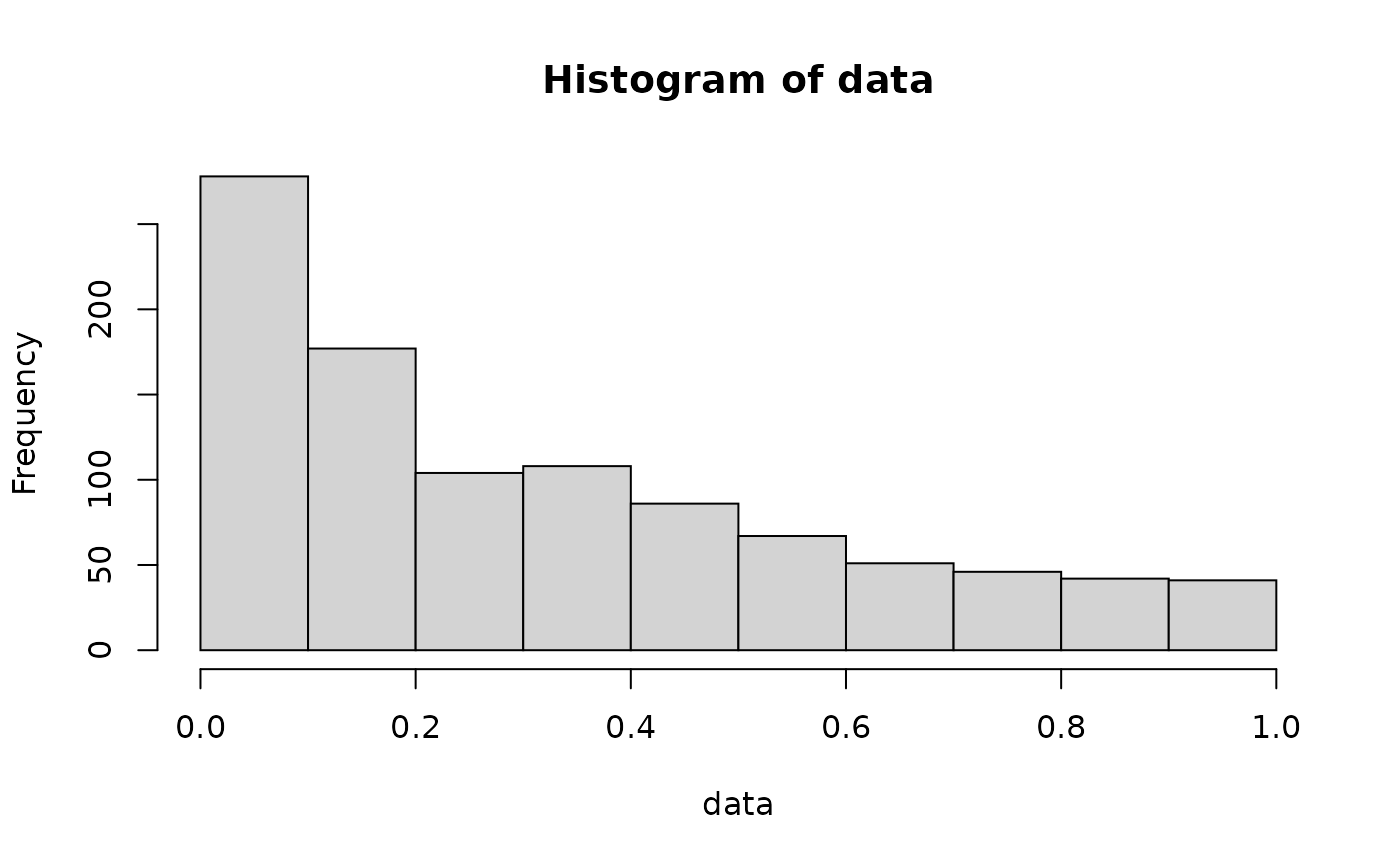
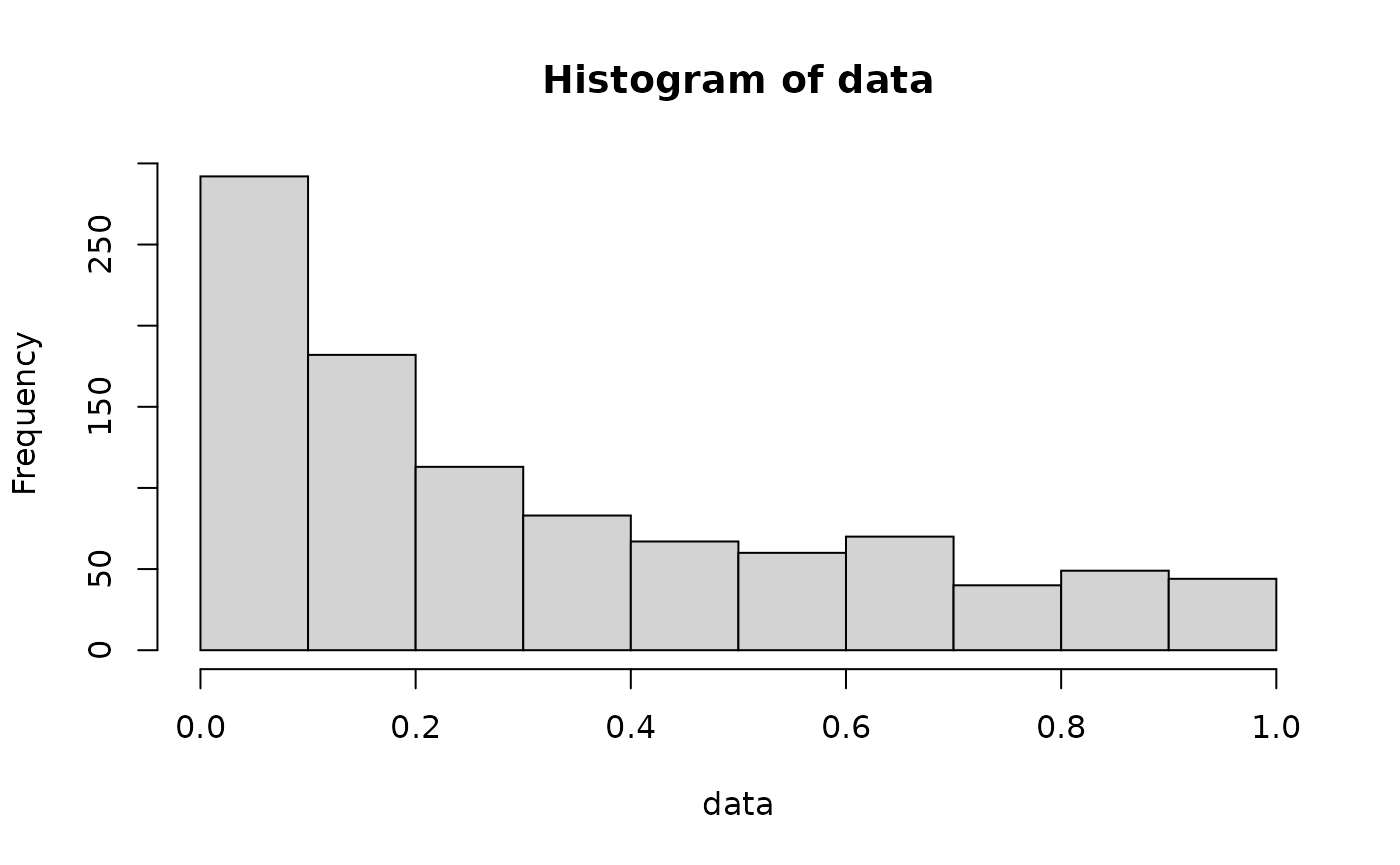
Built site for bradfordr: 0.0.0.9000@4e5adc8

diff --git a/index.html b/index.html
@@ -120,8 +120,8 @@
 <code class="sourceCode R"><span class="kw"><a href="https://rdrr.io/r/base/library.html">library</a></span><span class="op">(</span><span class="va"><a href="https://github.com/victordogo/bradfordr">bradfordr</a></span><span class="op">)</span>
 
 <span class="fu"><a href="reference/bradford.html">rbradford</a></span><span class="op">(</span>n<span class="op">=</span><span class="fl">10</span><span class="op">)</span>
-<span class="co">#&gt;  [1] 0.31796601 0.42704728 0.44115053 0.30844039 0.28752928 0.30320392</span>
-<span class="co">#&gt;  [7] 0.08046147 0.48804569 0.17340587 0.02626150</span></code></pre></div>
+<span class="co">#&gt;  [1] 0.96140531 0.12499598 0.76562824 0.01049923 0.12228598 0.12377033</span>
+<span class="co">#&gt;  [7] 0.11836122 0.11101673 0.02172411 0.96359812</span></code></pre></div>
 <p>If the value of c is less or equal than 0, the function returns an error (this is true to all functions in this package).</p>
 </div>
 <div id="pbradford" class="section level3">

diff --git a/articles/rng-bradford-dist.html b/articles/rng-bradford-dist.html
@@ -134,7 +134,7 @@ x = F^{-1}(u;c) = \frac{(1+c)^u - 1}{c}
 <span class="va">data</span> <span class="op">&lt;-</span> <span class="fu"><a href="../reference/bradford.html">rbradford</a></span><span class="op">(</span><span class="fl">1000</span>, c<span class="op">=</span><span class="fl">10</span><span class="op">)</span>
 
 <span class="fu"><a href="https://rdrr.io/r/utils/head.html">head</a></span><span class="op">(</span><span class="va">data</span><span class="op">)</span>
-<span class="co">#&gt; [1] 0.4396771 0.3965203 0.5047975 0.2439269 0.3801749 0.2174654</span></code></pre></div>
+<span class="co">#&gt; [1] 0.202339611 0.258772589 0.828421789 0.008220409 0.232196519 0.963634792</span></code></pre></div>
 <p>We can easily plot this data to understand how it behaves:</p>
 <div class="sourceCode" id="cb3"><pre class="downlit sourceCode r">
 <code class="sourceCode R">
